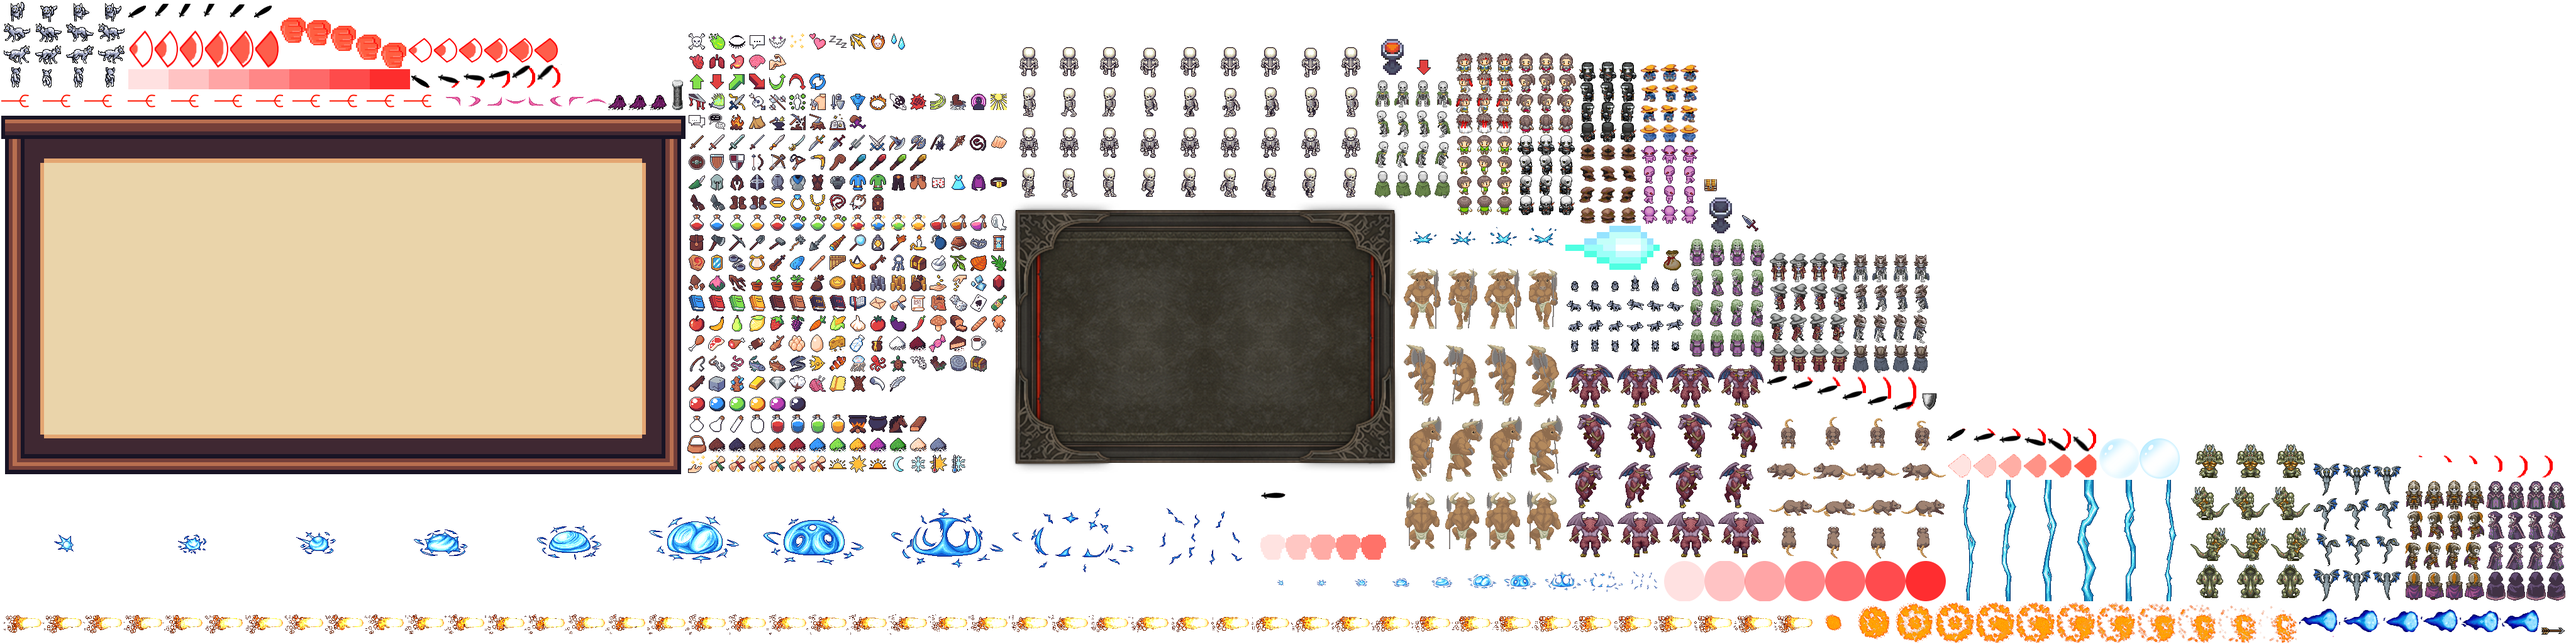
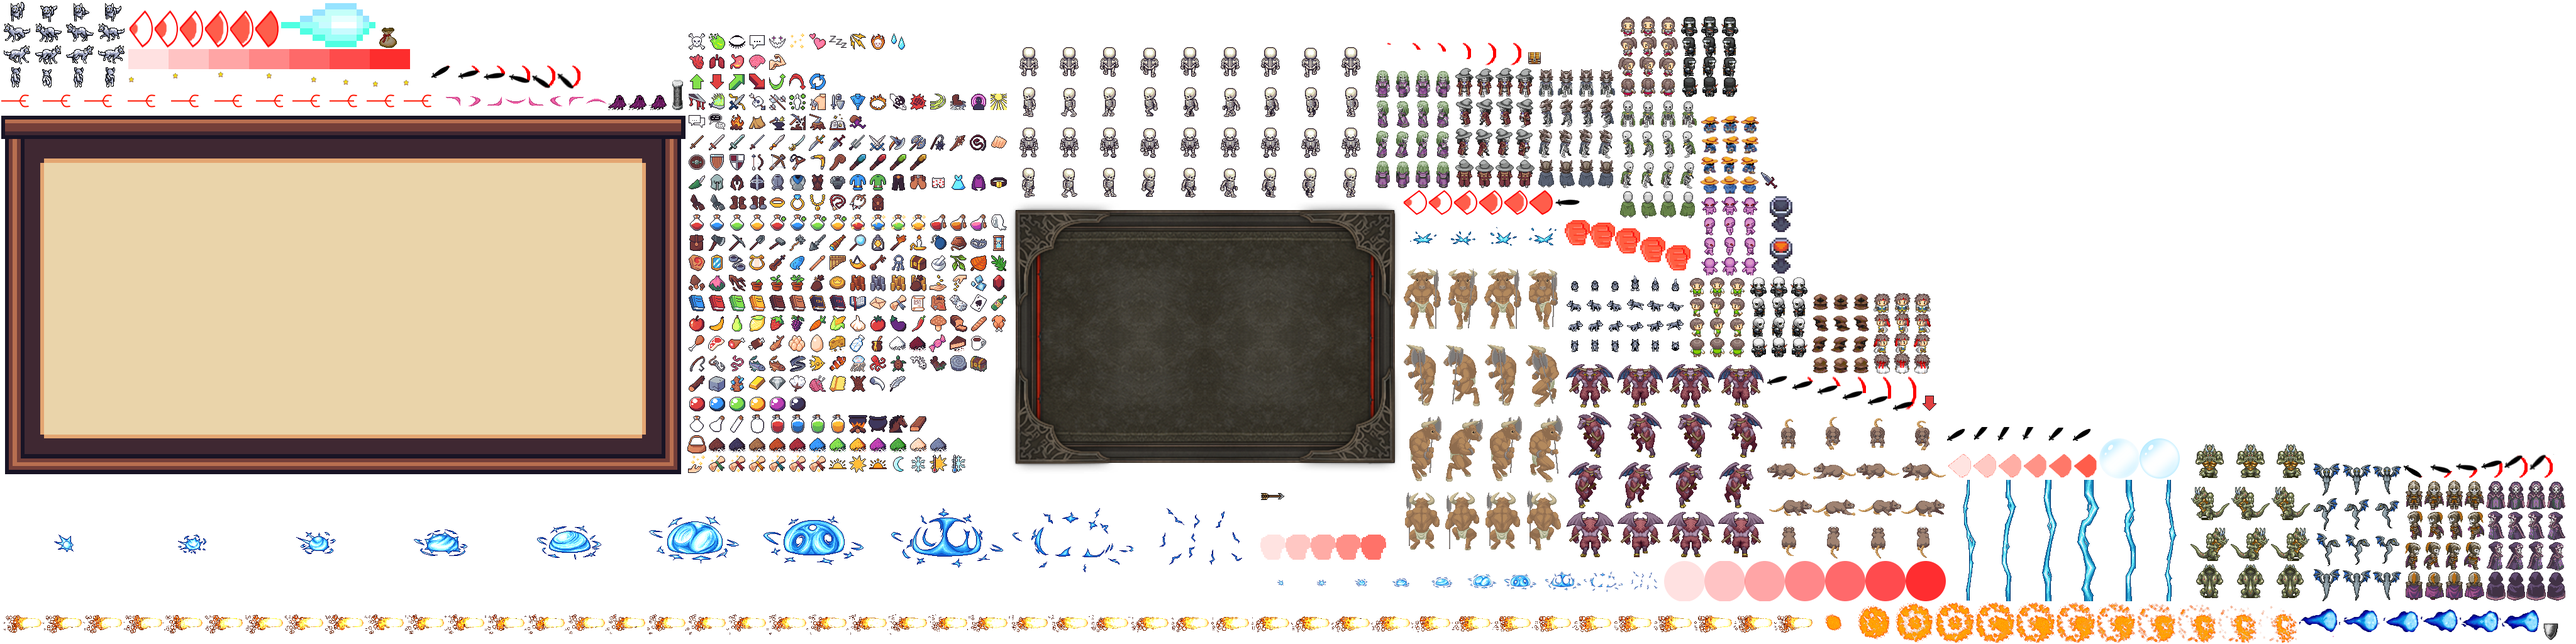
stun animation

diff --git a/core/src/com/mygdx/game/renderer/CreatureRenderer.java b/core/src/com/mygdx/game/renderer/CreatureRenderer.java
@@ -7,10 +7,10 @@ import com.badlogic.gdx.graphics.g2d.TextureAtlas;
 import com.badlogic.gdx.graphics.g2d.TextureRegion;
 import com.badlogic.gdx.math.Rectangle;
 import com.mygdx.game.game.interface_.GameRenderable;
-import com.mygdx.game.game.interface_.GameUpdatable;
 import com.mygdx.game.model.GameState;
 import com.mygdx.game.model.creature.Creature;
 import com.mygdx.game.model.creature.CreatureId;
+import com.mygdx.game.model.creature.effect.CreatureEffect;
 import com.mygdx.game.model.util.WorldDirection;
 import com.mygdx.game.renderer.config.CreatureAnimationConfig;
 import lombok.Data;
@@ -31,7 +31,7 @@ public class CreatureRenderer {
 
     List<Animation<TextureRegion>> runningAnimations;
 
-    TextureRegion textureRegion;
+    Animation<TextureRegion> stunnedAnimation;
 
     public static CreatureRenderer of(CreatureId creatureId) {
         CreatureRenderer creatureRenderer = new CreatureRenderer();
@@ -52,11 +52,11 @@ public class CreatureRenderer {
 
         CreatureAnimationConfig animationConfig = creature.animationConfig();
 
-        textureRegion = atlas.findRegion(animationConfig.textureName());
+        TextureRegion runningAnimationTextureRegion = atlas.findRegion(animationConfig.textureName());
 
         for (int i = 0; i < 4; i++) {
             facingTextures.set(i,
-                               new TextureRegion(textureRegion,
+                               new TextureRegion(runningAnimationTextureRegion,
                                                  animationConfig.neutralStanceFrame() * animationConfig.textureWidth(),
                                                  i * animationConfig.textureHeight(),
                                                  animationConfig.textureWidth(),
@@ -66,7 +66,7 @@ public class CreatureRenderer {
         for (int i = 0; i < 4; i++) {
             TextureRegion[] frames = new TextureRegion[animationConfig.frameCount()];
             for (int j = 0; j < animationConfig.frameCount(); j++) {
-                frames[j] = (new TextureRegion(textureRegion,
+                frames[j] = (new TextureRegion(runningAnimationTextureRegion,
                                                j * animationConfig.textureWidth(),
                                                i * animationConfig.textureHeight(),
                                                animationConfig.textureWidth(),
@@ -77,6 +77,19 @@ public class CreatureRenderer {
             runningAnimations.add(i, new Animation<>(animationConfig.frameDuration(), frames));
         }
 
+        TextureRegion stunnedAnimationTextureRegion = atlas.findRegion("stunned");
+
+        TextureRegion[] frames = new TextureRegion[8];
+        for (int i = 0; i < 8; i++) {
+            frames[i] = (new TextureRegion(stunnedAnimationTextureRegion,
+                                           i * 60,
+                                           0,
+                                           60,
+                                           30));
+        }
+
+        stunnedAnimation = new Animation<>(0.035f, frames);
+
     }
 
     public TextureRegion runningAnimation(GameRenderable game) {
@@ -86,6 +99,14 @@ public class CreatureRenderer {
 
         return runningAnimations.get(creature.animationConfig().dirMap().get(currentDirection))
                                 .getKeyFrame(creature.params().animationTimer().time(), true);
+    }
+
+    public TextureRegion stunnedAnimation(GameRenderable game) {
+        Creature creature = game.getCreature(creatureId);
+
+        float currentStunDuration = creature.getCurrentEffectDuration(CreatureEffect.STUN, game);
+
+        return stunnedAnimation.getKeyFrame(currentStunDuration, true);
     }
 
     public TextureRegion getFacingTexture(GameRenderable game) {
@@ -115,7 +136,7 @@ public class CreatureRenderer {
         if (creature.isAlive()) {
 
             TextureRegion texture;
-            if (!creature.params().isMoving()) {
+            if (!creature.params().isMoving() || creature.isEffectActive(CreatureEffect.STUN, game)) {
                 texture = getFacingTexture(game);
             }
             else {
@@ -145,7 +166,7 @@ public class CreatureRenderer {
         }
     }
 
-    public void renderLifeBar(DrawingLayer drawingLayer, GameUpdatable game) {
+    public void renderLifeBar(DrawingLayer drawingLayer, GameRenderable game) {
         float lifeBarHeight = 0.16f;
         float lifeBarWidth = 2.0f;
 
@@ -161,6 +182,20 @@ public class CreatureRenderer {
         }
         else {
             drawingLayer.filledRectangle(new Rectangle(barPosX, barPosY, lifeBarWidth, lifeBarHeight), Color.ROYAL);
+        }
+
+    }
+
+    public void renderStunnedAnimation(DrawingLayer drawingLayer, GameRenderable game) {
+        Creature creature = game.getCreature(creatureId);
+
+        float distanceFromLifeBar = 1f;
+
+        float posX = creature.params().pos().x() - 1.5f;
+        float posY = creature.params().pos().y() + sprite.getWidth() / 2 + 0.3125f - distanceFromLifeBar;
+
+        if (creature.isEffectActive(CreatureEffect.STUN, game)) {
+            drawingLayer.spriteBatch().draw(stunnedAnimation(game), posX, posY, 3f, 1.5f);
         }
 
     }

diff --git a/core/src/com/mygdx/game/model/action/creature/CreatureHitAction.java b/core/src/com/mygdx/game/model/action/creature/CreatureHitAction.java
@@ -2,6 +2,7 @@ package com.mygdx.game.model.action.creature;
 
 import com.mygdx.game.game.interface_.GameActionApplicable;
 import com.mygdx.game.model.GameState;
+import com.mygdx.game.model.ability.Ability;
 import com.mygdx.game.model.action.GameStateAction;
 import com.mygdx.game.model.area.LootPile;
 import com.mygdx.game.model.area.LootPileId;
@@ -28,9 +29,7 @@ import java.util.stream.Collectors;
 public class CreatureHitAction implements GameStateAction {
     CreatureId attackerId;
     CreatureId targetId;
-    boolean isRanged;
-    Vector2 dirVector;
-    Float damage;
+    Ability ability;
 
     @Override
     public Vector2 actionObjectPos(GameState gameState) {
@@ -44,18 +43,22 @@ public class CreatureHitAction implements GameStateAction {
     public void applyToGame(GameActionApplicable game) {
         Creature targetCreature = game.getCreature(targetId);
         targetCreature.onBeingHit(true,
-                                  dirVector,
-                                  damage,
+                                  ability.params().dirVector(),
+                                  ability.getDamage(game),
                                   attackerId,
                                   game);
 
         if (targetCreature.params().previousTickLife() > 0f && targetCreature.params().life() <= 0f) {
-            System.out.println("ded");
-
             targetCreature.params().life(0f); // just to make sure its dead on client side
             targetCreature.params().isDead(true);
             targetCreature.params().respawnTimer().restart();
             targetCreature.params().awaitingRespawn(true);
+
+            ability.params()
+                   .creaturesAlreadyHit()
+                   .put(targetId, ability.params().stateTimer().time());
+
+            ability.onCreatureHit();
 
             spawnDrops(game);
         }

diff --git a/core/src/com/mygdx/game/game/MyGdxGameServer.java b/core/src/com/mygdx/game/game/MyGdxGameServer.java
@@ -8,7 +8,6 @@ import com.mygdx.game.command.InitPlayerCommand;
 import com.mygdx.game.command.PerformActionCommand;
 import com.mygdx.game.command.SendChatMessageCommand;
 import com.mygdx.game.command.SpawnEnemyCommand;
-import com.mygdx.game.game.interface_.GameUpdatable;
 import com.mygdx.game.model.GameState;
 import com.mygdx.game.model.ability.*;
 import com.mygdx.game.model.action.ActionsHolder;
@@ -476,11 +475,8 @@ public class MyGdxGameServer extends MyGdxGame {
     @Override
     public void onCreatureHit(CreatureId attackerId,
                               CreatureId targetId,
-                              boolean isRanged,
-                              Vector2 dirVector,
-                              Float damage,
-                              GameUpdatable game) {
-        CreatureHitAction action = CreatureHitAction.of(attackerId, targetId, isRanged, dirVector, damage);
+                              Ability ability) {
+        CreatureHitAction action = CreatureHitAction.of(attackerId, targetId, ability);
 
         onTickActions.add(action);
     }

diff --git a/core/src/com/mygdx/game/game/MyGdxGameClient.java b/core/src/com/mygdx/game/game/MyGdxGameClient.java
@@ -10,7 +10,6 @@ import com.mygdx.game.command.InitPlayerCommand;
 import com.mygdx.game.command.PerformActionCommand;
 import com.mygdx.game.command.SendChatMessageCommand;
 import com.mygdx.game.command.SpawnEnemyCommand;
-import com.mygdx.game.game.interface_.GameUpdatable;
 import com.mygdx.game.model.GameState;
 import com.mygdx.game.model.ability.Ability;
 import com.mygdx.game.model.ability.AbilityId;
@@ -483,10 +482,7 @@ public class MyGdxGameClient extends MyGdxGame {
     @Override
     public void onCreatureHit(CreatureId attackerId,
                               CreatureId targetId,
-                              boolean isRanged,
-                              Vector2 dirVector,
-                              Float damage,
-                              GameUpdatable game) {
+                              Ability ability) {
 
     }
 

diff --git a/core/src/com/mygdx/game/model/creature/Creature.java b/core/src/com/mygdx/game/model/creature/Creature.java
@@ -216,7 +216,7 @@ public abstract class Creature {
         if (!isShielded) {
             takeLifeDamage(damage);
 
-            applyEffect(CreatureEffect.STUN, 0.2f, game);
+            applyEffect(CreatureEffect.STUN, 0.5f, game);
         }
     }
 
@@ -284,6 +284,11 @@ public abstract class Creature {
         CreatureEffectState effectState = params().effects().get(effect);
         return game.getTime() >= effectState.startTime() &&
                game.getTime() < effectState.startTime() + effectState.duration();
+    }
+
+    public float getCurrentEffectDuration(CreatureEffect effect, GameUpdatable game) {
+        CreatureEffectState effectState = params().effects().get(effect);
+        return game.getTime() - effectState.startTime();
     }
 
     public void applyEffect(CreatureEffect effect, float duration, GameUpdatable game) {

diff --git a/core/src/com/mygdx/game/physics/util/PhysicsHelper.java b/core/src/com/mygdx/game/physics/util/PhysicsHelper.java
@@ -147,16 +147,7 @@ public class PhysicsHelper {
 
                 game.onCreatureHit(event.sourceCreatureId(),
                                    event.destinationCreatureId(),
-                                   ability.isRanged(),
-                                   ability.params().dirVector(),
-                                   ability.getDamage(game),
-                                   game); // TODO: just pass ability here instead
-
-                ability.params() // TODO: move to game.oncreatyurehit?
-                       .creaturesAlreadyHit()
-                       .put(event.destinationCreatureId(), ability.params().stateTimer().time());
-
-                ability.onCreatureHit(); // TODO: move to game.oncreatyurehit?
+                                   ability);
             }
 
 

diff --git a/core/src/com/mygdx/game/renderer/GameRenderer.java b/core/src/com/mygdx/game/renderer/GameRenderer.java
@@ -84,6 +84,17 @@ public class GameRenderer {
 
             }
         });
+
+
+        game.getCreatures().entrySet().stream().filter(entry -> entry.getValue().isAlive()).forEach(entry -> {
+            if (creatureRenderers().containsKey(entry.getKey()) && entry.getValue()
+                                                                        .params()
+                                                                        .areaId()
+                                                                        .equals(game.getCurrentPlayerAreaId())) {
+                creatureRenderers.get(entry.getKey()).renderStunnedAnimation(drawingLayer, game);
+
+            }
+        });
     }
 
     public void renderDeadCreatures(DrawingLayer drawingLayer, GameRenderable game) {

diff --git a/core/src/com/mygdx/game/model/ability/LightningSpark.java b/core/src/com/mygdx/game/model/ability/LightningSpark.java
@@ -82,10 +82,7 @@ public class LightningSpark extends Ability {
 
             game.onCreatureHit(targetCreature.params().id(),
                                params().creatureId(),
-                               true,
-                               params().dirVector(),
-                               getDamage(game),
-                               game);
+                               this);
 
             params().creaturesAlreadyHit().put(targetCreature.params().id(), params().stateTimer().time());
 

diff --git a/core/src/com/mygdx/game/model/ability/LightningNode.java b/core/src/com/mygdx/game/model/ability/LightningNode.java
@@ -63,10 +63,7 @@ public class LightningNode extends Ability {
 
             game.onCreatureHit(targetCreature.params().id(),
                                params().creatureId(),
-                               true,
-                               params().dirVector(),
-                               getDamage(game),
-                               game);
+                               this);
 
             params().creaturesAlreadyHit().put(targetCreature.params().id(), params().stateTimer().time());
 

diff --git a/core/src/com/mygdx/game/game/interface_/GameUpdatable.java b/core/src/com/mygdx/game/game/interface_/GameUpdatable.java
@@ -82,10 +82,7 @@ public interface GameUpdatable {
 
     void onCreatureHit(CreatureId attackerId,
                        CreatureId targetId,
-                       boolean isRanged,
-                       Vector2 dirVector,
-                       Float damage,
-                       GameUpdatable game);
+                       Ability ability);
 
 
 }

diff --git a/core/src/com/mygdx/game/model/creature/Enemy.java b/core/src/com/mygdx/game/model/creature/Enemy.java
@@ -200,7 +200,7 @@ public class Enemy extends Creature {
         if (!isShielded) {
             takeLifeDamage(damage);
 
-            applyEffect(CreatureEffect.STUN, 0.2f, game);
+            applyEffect(CreatureEffect.STUN, 0.5f, game);
 
             params().attackedByCreatureId();
             params().aggroedCreatureId(attackerId);
